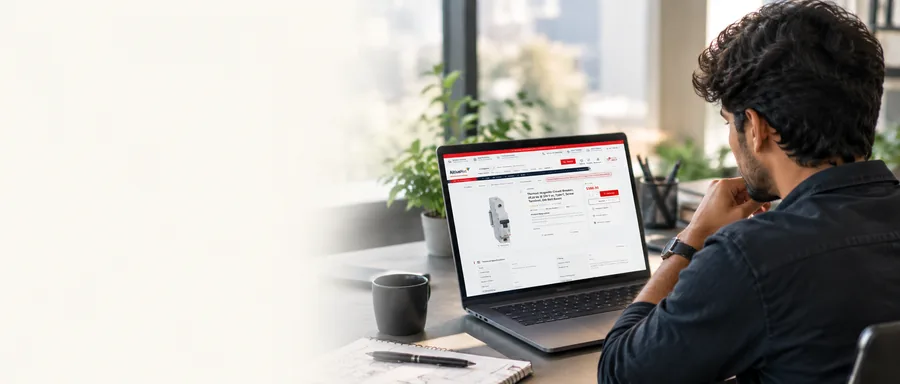
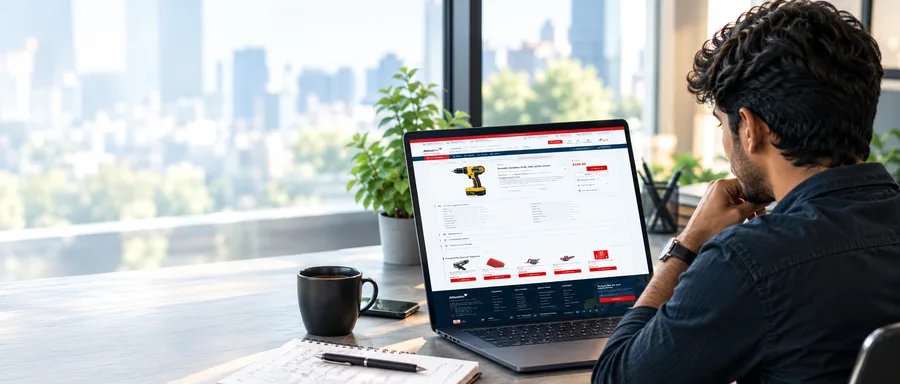
About Us hero: new background image

diff --git a/src/pages/AboutUs.jsx b/src/pages/AboutUs.jsx
@@ -50,7 +50,7 @@ export default function AboutUs() {
               srcSet={`${heroTeamSm} 900w, ${heroTeam} 1586w`}
               sizes="(max-width: 900px) 100vw, 54vw"
               width="1920" height="819" fetchPriority="high"
-              alt="A product data specialist reviewing an enriched product page on a laptop"
+              alt="A buyer reviewing an industrial product page on a laptop"
             />
           </figure>
         </div>
